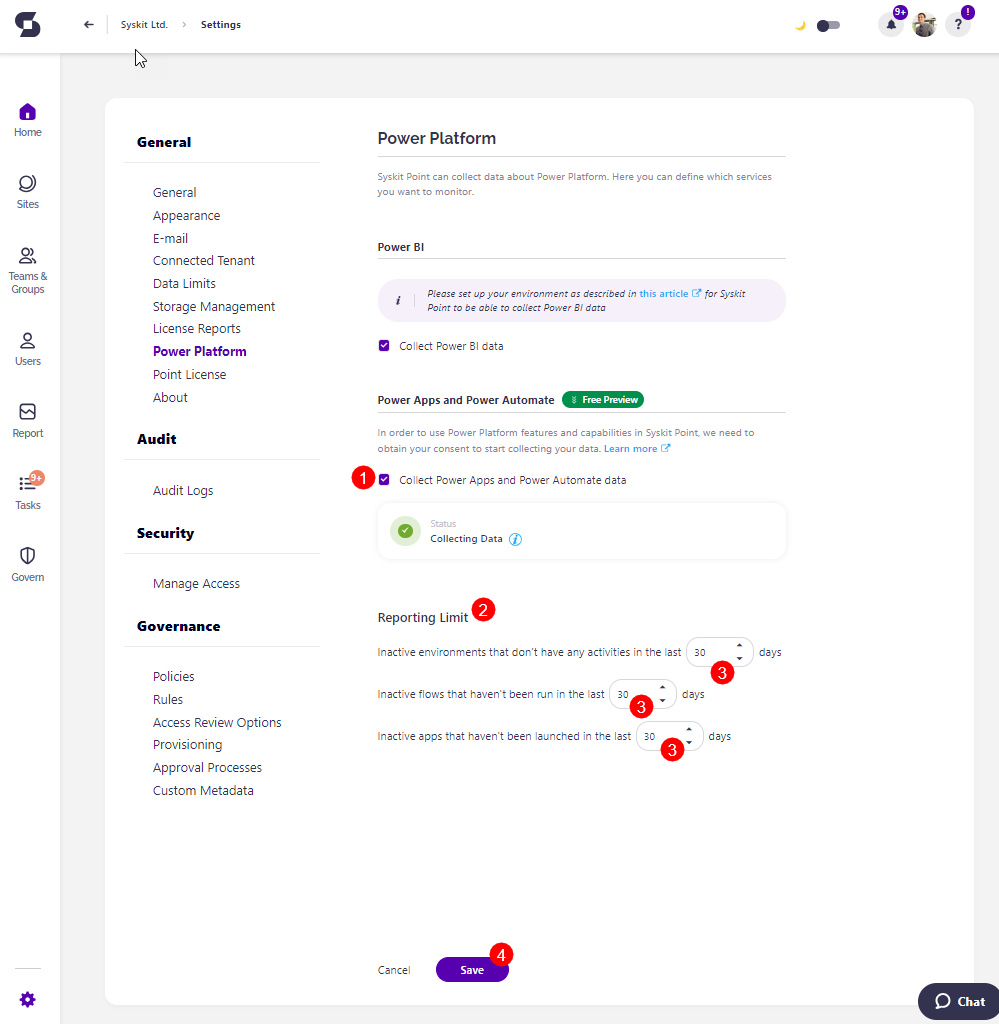
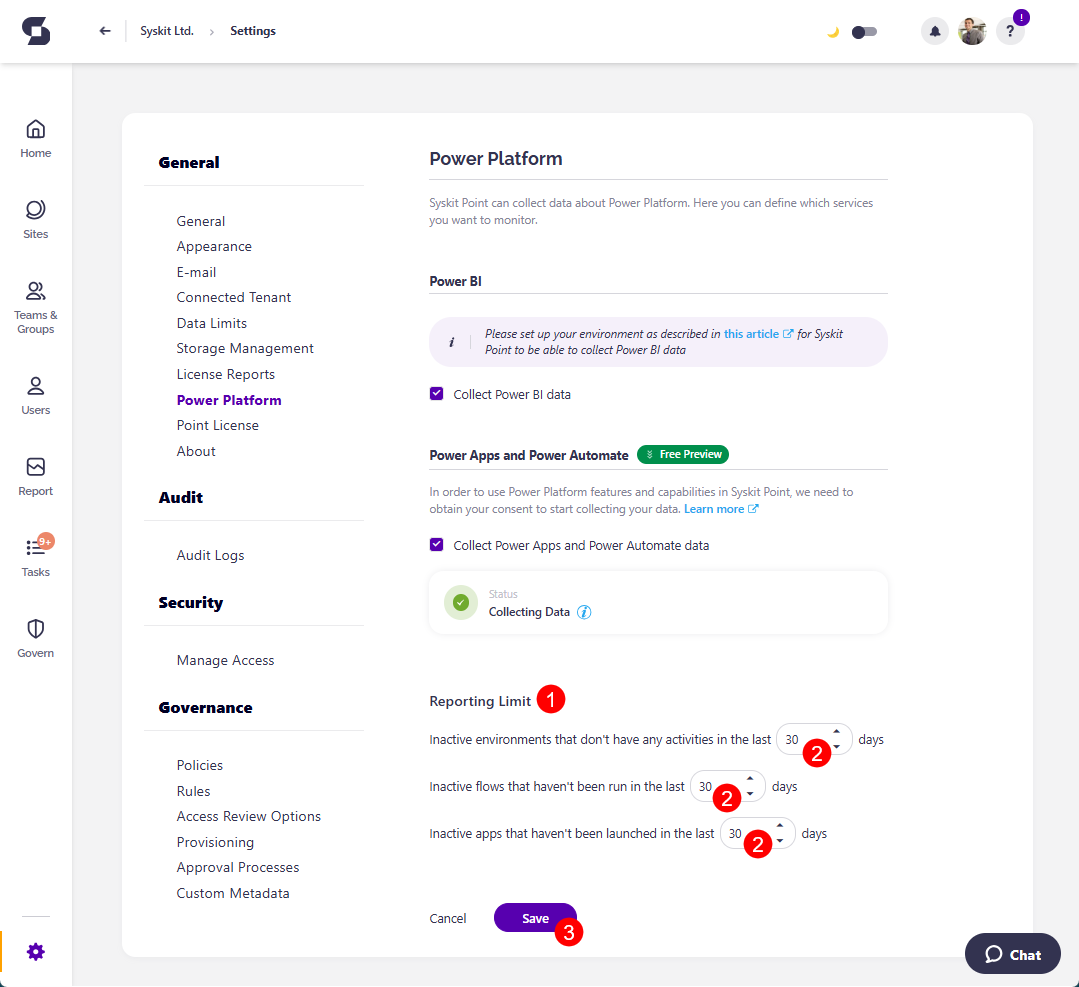
image udpates

diff --git a/configuration/power-platform.md b/configuration/power-platform.md
@@ -50,14 +50,14 @@ To stop the Power Platform data collection, uncheck the Collect Power Apps and P
 
 After enabling the Power Platform data collection, additional setting are displayed, which affect the Power Platform reports and dashboard tile.
 
-* You can set **Reporting Limits (2)** for how long environments, flows, or apps must be inactive before being flagged as such in the reports. The following can be set:
+* You can set **Reporting Limits (1)** for how long environments, flows, or apps must be inactive before being flagged as such in the reports. The following can be set:
   * Inactive environments that don't have any activities in the last XX days
   * Inactive flows that haven't been run in the last XX days
   * Inactive apps that haven't been launched in the last XX days
-* **Enter the number of days (3)** in the designated space
+* **Enter the number of days (2)** in the designated space
   * The number of days selected here is **reflected when showing data on the Power Platform reports** and the Power Platform **Dashboard tile**
   * The default/minimum number of days set as the inactivity period is 30 days
-* **Click Save (4)** to store your preferences
+* **Click Save (3)** to store your preferences
 
 ![Power Apps and Power Automate](../.gitbook/assets/power-platform-power-point-reports.png)
  
